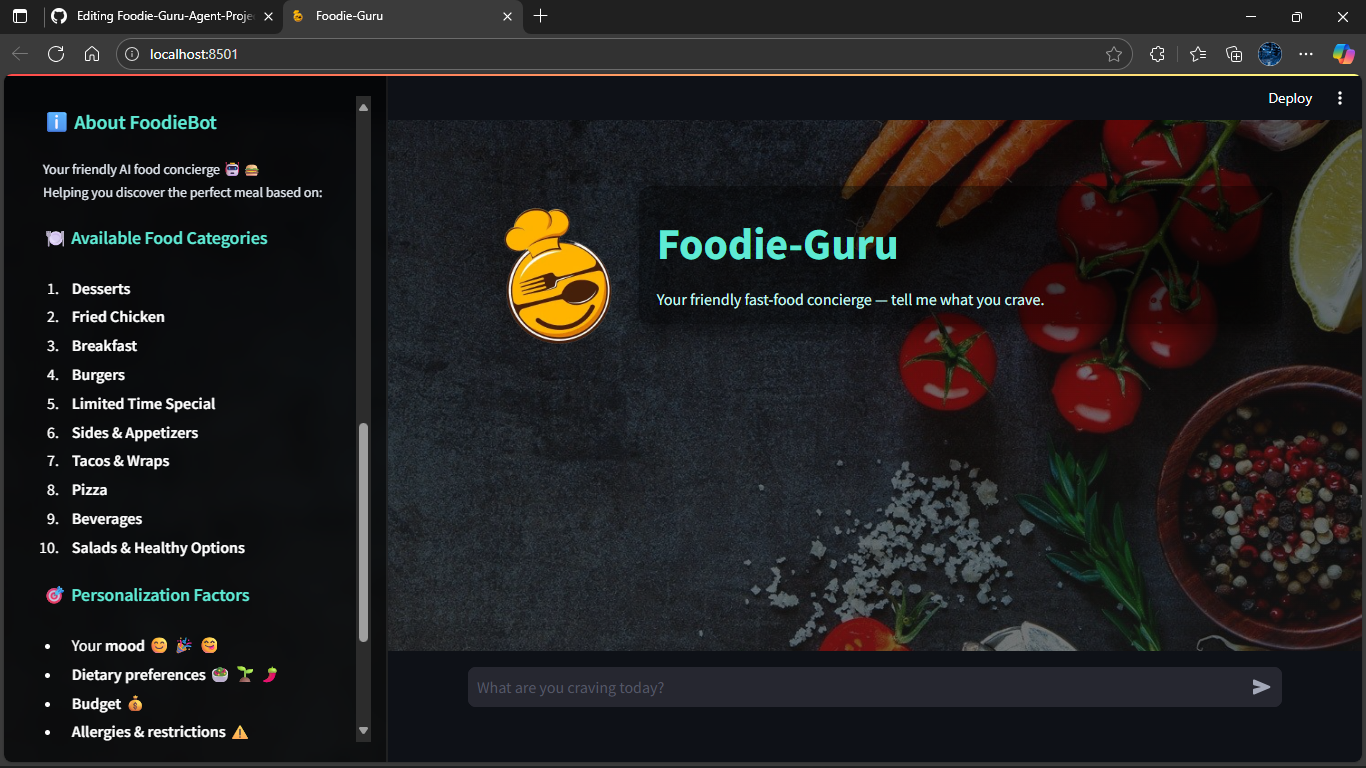
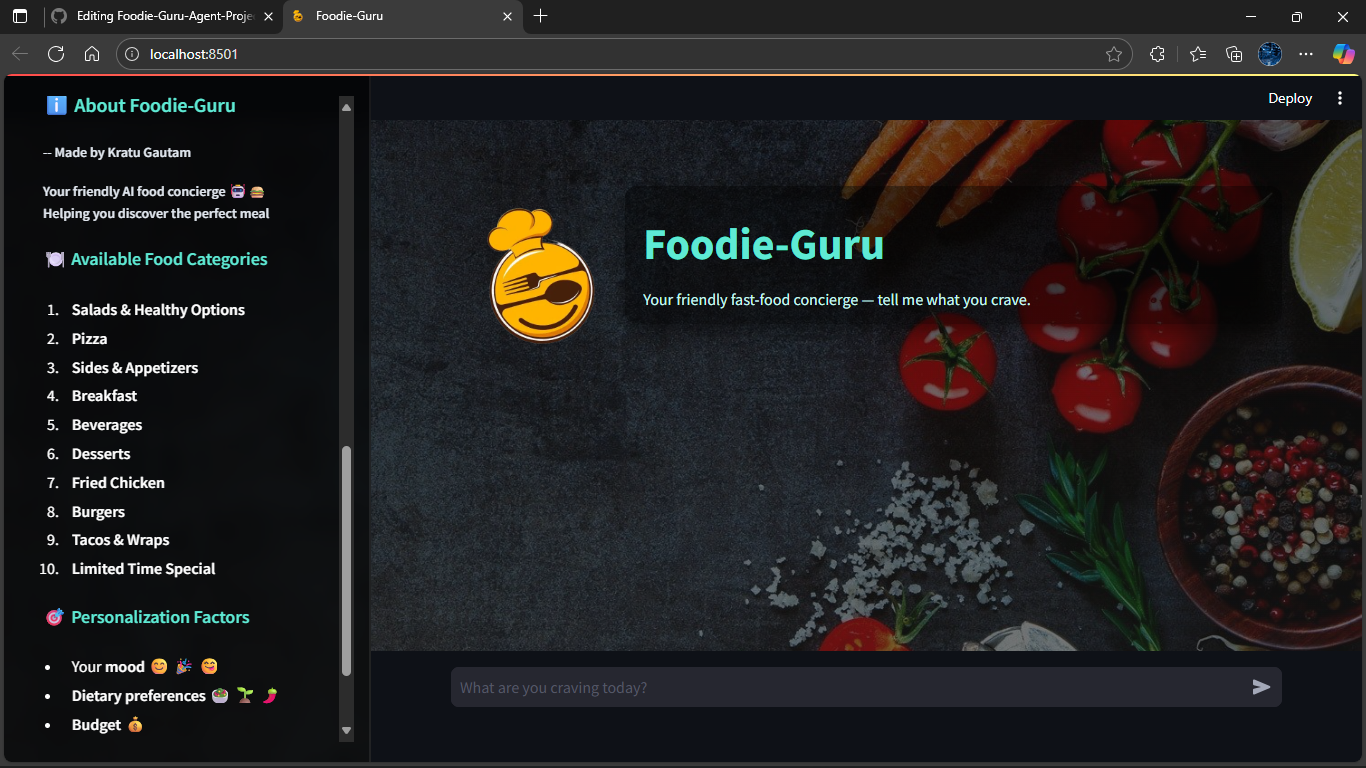
GUI Overhaul

diff --git a/frontend/app.py b/frontend/app.py
@@ -423,11 +423,12 @@ if prompt := st.chat_input("What are you craving today?"):
 
 # Footer / About Section
 with st.sidebar:
-    st.markdown("## ℹ About **FoodieBot**")
+    st.markdown("## ℹ About **Foodie-Guru**")
+    st.markdown("-- **Made by Kratu Gautam**")
     st.markdown(
         """
-        Your friendly AI food concierge 🤖🍔  
-        Helping you discover the perfect meal based on:
+        **Your friendly AI food concierge 🤖🍔  
+        Helping you discover the perfect meal**
         """
     )
     results = get_unique_values()
@@ -450,5 +451,3 @@ with st.sidebar:
         - **Allergies & restrictions** ⚠  
         """
     )
-    st.markdown("---")
-    st.caption("🍕 FoodieBot — making cravings smarter, one bite at a time.")
